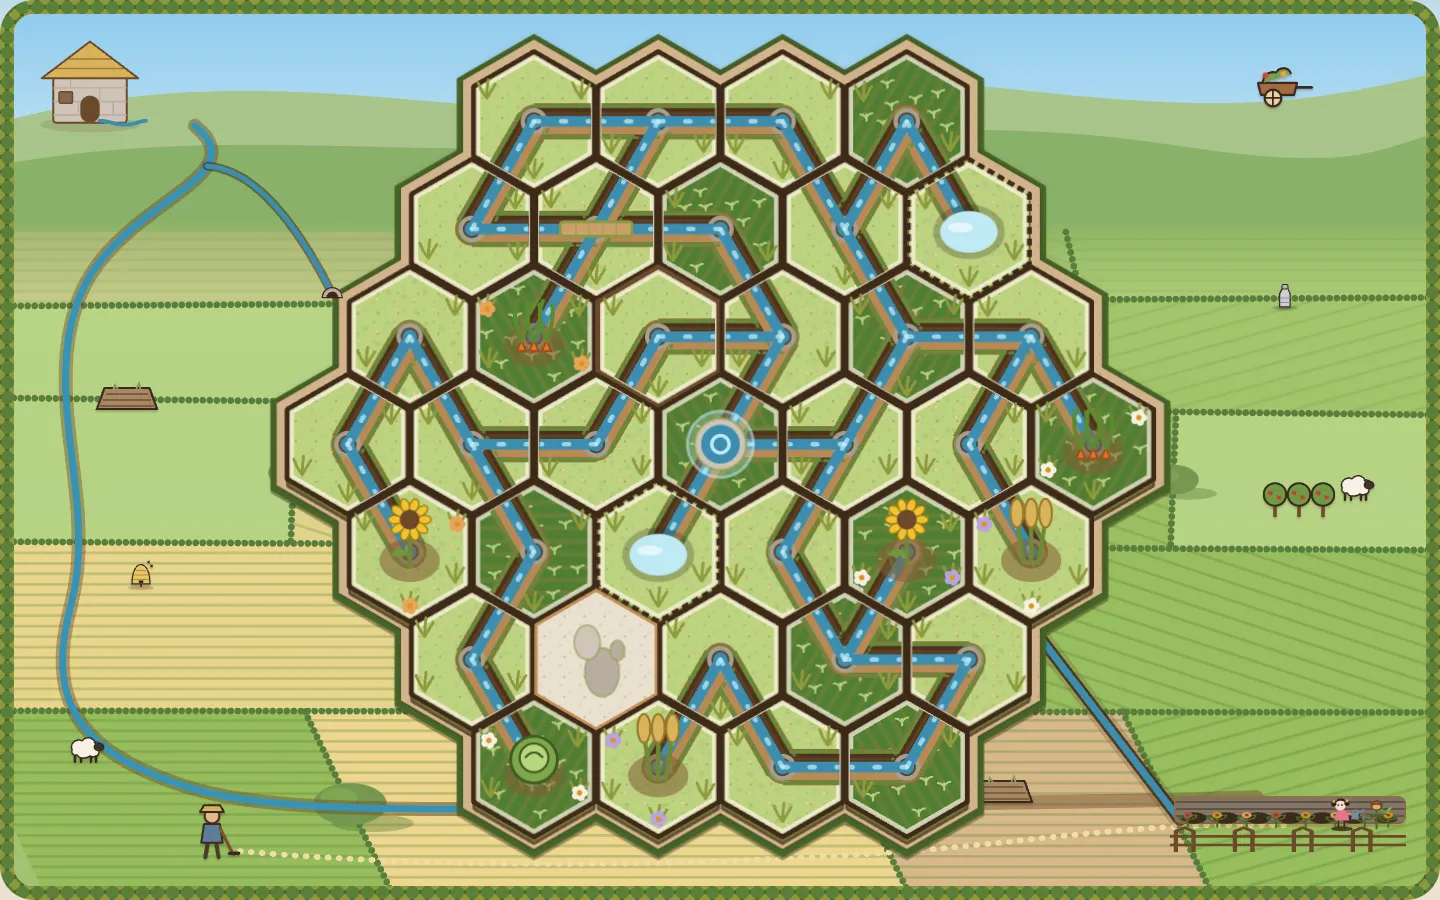
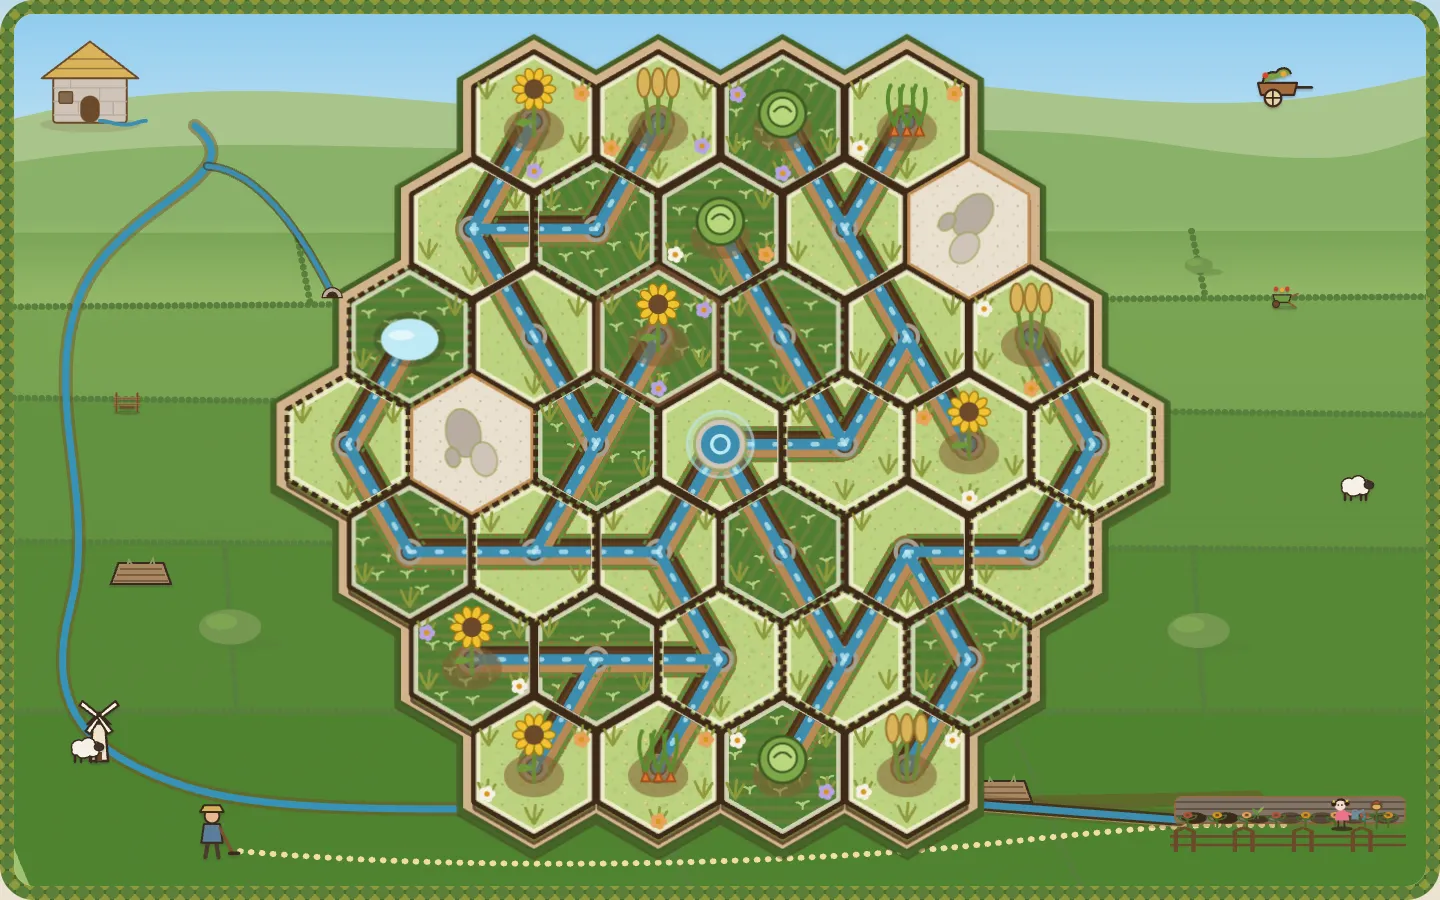
Item 308 done: a solved Runnel board greens the valley over in a wave; key art re-shot
Claude-Session: https://claude.ai/code/session_01SimvMN1RHBGCWN7Eo7MzhN

diff --git a/e2e-site/runnel-greened.spec.ts b/e2e-site/runnel-greened.spec.ts
@@ -1,0 +1,44 @@
+import { test, expect } from '@playwright/test'
+
+// Plan item 308: a solved board greens the valley's fields over: the tan fields (wheat, fallow) turn 30 degrees or more
+// of hue toward the wet-field green, the pale green crops deepen (in a wave; under reduced motion a single fade).
+const rgb = (c: string): [number, number, number] => {
+  const v = (c.match(/[\d.]+/g) ?? []).slice(0, 3).map(Number) as [number, number, number]
+  return c.startsWith('color(') ? v : (v.map((x) => x / 255) as [number, number, number])
+}
+const light = (c: string): number => {
+  const [r, g, b] = rgb(c)
+  return (Math.max(r, g, b) + Math.min(r, g, b)) / 2
+}
+const hue = (c: string): number => {
+  const [r, g, b] = rgb(c)
+  const max = Math.max(r, g, b), min = Math.min(r, g, b), d = max - min
+  if (d === 0) return 0
+  const h = max === r ? ((g - b) / d) % 6 : max === g ? (b - r) / d + 2 : (r - g) / d + 4
+  return (h * 60 + 360) % 360
+}
+
+test('a solved board greens the valley over', async ({ page }) => {
+  await page.emulateMedia({ reducedMotion: 'reduce' })
+  await page.addInitScript(() => localStorage.setItem('runnel:v1', JSON.stringify({ version: 1, lessonDone: true, results: {} })))
+  await page.goto('/runnel/?shotsolve')
+  await page.locator('[data-last]').waitFor()
+  const fills = () =>
+    page.locator('#valley-paint .vl-f-crop, #valley-paint .vl-f-wheat, #valley-paint .vl-f-fallow').evaluateAll((els) => els.map((e) => ({ crop: e.classList.contains('vl-f-crop'), fill: getComputedStyle(e).fill })))
+  const before = await fills()
+  expect(before.length).toBeGreaterThan(0)
+  await expect(page.locator('#valley-paint')).not.toHaveAttribute('data-greened', '')
+  await page.locator('[data-last]').click({ force: true })
+  await expect(page.locator('#valley-paint')).toHaveAttribute('data-greened', '')
+  await page.waitForTimeout(800)
+  const after = await fills()
+  for (const [i, { crop, fill }] of after.entries()) {
+    const was = before[i]!.fill
+    if (crop) {
+      expect(light(was) - light(fill), `crop ${i}: ${was} -> ${fill}`).toBeGreaterThanOrEqual(0.15)
+    } else {
+      const shift = Math.abs(hue(fill) - hue(was))
+      expect(Math.min(shift, 360 - shift), `field ${i}: ${was} -> ${fill}`).toBeGreaterThanOrEqual(30)
+    }
+  }
+})

diff --git a/games/runnel/src/styles.css b/games/runnel/src/styles.css
@@ -3845,6 +3845,19 @@ body[data-mode='practice'] #week-slot {
   .vl-f-wheat { fill: color-mix(in srgb, var(--vl-wheat) var(--vk), var(--paper)); }
   .vl-f-fallow { fill: color-mix(in srgb, var(--vl-fallow) var(--vk), var(--paper)); }
   .vl-f-grass { fill: color-mix(in srgb, var(--vl-meadow) var(--vk), var(--paper)); }
+  /* Plan item 308: when the board is solved every field in the valley greens over, a wave from the far rows to the
+     near ones (each field's delay bucket from valley.ts), the crop rows still drawn over the new green. */
+  .vl-f { transition: fill 650ms var(--ease-out, ease-out); }
+  #valley-paint[data-greened] .vl-f { fill: color-mix(in srgb, var(--wet-field) var(--vk), var(--paper)); }
+  #valley-paint[data-greened] .vl-w1 { transition-delay: 90ms; }
+  #valley-paint[data-greened] .vl-w2 { transition-delay: 180ms; }
+  #valley-paint[data-greened] .vl-w3 { transition-delay: 270ms; }
+  #valley-paint[data-greened] .vl-w4 { transition-delay: 360ms; }
+  #valley-paint[data-greened] .vl-w5 { transition-delay: 450ms; }
+  #valley-paint[data-greened] .vl-w6 { transition-delay: 540ms; }
+  #valley-paint[data-greened] .vl-w7 { transition-delay: 630ms; }
+  #valley-paint[data-greened] .vl-w8 { transition-delay: 720ms; }
+  #valley-paint[data-greened] .vl-w9 { transition-delay: 810ms; }
   .vl-row {
     stroke: color-mix(in srgb, var(--vl-hedge) 30%, transparent);
     stroke-width: 3;
@@ -4594,4 +4607,9 @@ body[data-mode='sunday'] .rail > .cal-title:first-of-type {
     background: radial-gradient(circle at 40% 35%, color-mix(in srgb, var(--stake-hi) 80%, var(--paper)), var(--stake) 70%);
     box-shadow: inset 0 0 0 1.5px color-mix(in srgb, var(--soil) 55%, transparent), inset 0 2px 2px color-mix(in srgb, var(--soil) 30%, transparent);
   }
+}
+@media (prefers-reduced-motion: reduce) {
+  /* Plan item 308: the valley greens in one short fade, no wave. */
+  .vl-f { transition-duration: 300ms; }
+  #valley-paint[data-greened] .vl-f { transition-delay: 0ms; }
 }

diff --git a/games/runnel/src/valley.ts b/games/runnel/src/valley.ts
@@ -146,7 +146,10 @@ export function valleyLayers(seed: string, weather: Sky['weather']): string {
       const pts = [
         [xa, slope(r, xa)], [xb, slope(r, xb)], [xb + lean, slope(r + 1, xb + lean)], [xa + lean, slope(r + 1, xa + lean)],
       ].map(([x, y]) => `${x!.toFixed(0)},${y!.toFixed(0)}`).join(' ')
-      parts.push(`<polygon class="vl-f vl-f-${kind}" points="${pts}"/>`)
+      // Plan item 308: each field's place in the wave that greens the valley on a solve (far rows first, then left to
+      // right), as a delay bucket 0-9 (styles.css).
+      const wave = Math.min(9, r * 2 + Math.floor((i * 2) / count))
+      parts.push(`<polygon class="vl-f vl-f-${kind} vl-w${wave}" points="${pts}"/>`)
       if (kind !== 'grass') {
         const pat = rnd(500 + n) < 0.5 ? 'vl-rows-h' : rnd(600 + n) < 0.5 ? 'vl-rows-d' : 'vl-rows-a'
         parts.push(`<polygon class="vl-furrow" fill="url(#${pat})" points="${pts}"/>`)

diff --git a/games/runnel/src/main.ts b/games/runnel/src/main.ts
@@ -1058,6 +1058,8 @@ function render(): void {
   const playable = puzzle.cells.filter((c) => c.kind !== 'stone').length
   ui.progress.style.setProperty('--progress', String(flow.wet.size / playable))
   ui.progress.classList.toggle('done', flow.solved)
+  // Plan item 308: a solved board greens the valley's fields over, in a wave (styles.css).
+  document.getElementById('valley-paint')?.toggleAttribute('data-greened', flow.solved)
   const wetShare = flow.solved ? 1 : flow.wet.size / playable
   for (const path of document.querySelectorAll<SVGPathElement>('.vl-water, .vl-trickle')) path.style.setProperty('--wet', String(wetShare))
   // Plan item 70: today's seed in Bea's garden sprouts as the stream reaches the fields (a full plant at a solve).

diff --git a/docs/plan/two-week-plan.md b/docs/plan/two-week-plan.md
@@ -2963,7 +2963,7 @@ The items come from fresh-eyes audits on 2026-11-01 and 2026-11-02 (items 25-32:
 - **Accept:** no untextured grey geometry in either l21 3D shot; every plot column inside the phone frame; nothing cut by the canvas top; no mote over 12 px across a plot; hedgerow-3dframe, -closeframe, -biome3d pass; key art re-shot; shots P and D.
 - **Size:** 2
 
-## 308. [ ] Runnel: a solved valley greens over *(lane B, in progress)*
+## 308. [x] Runnel: a solved valley greens over *(done 2026-11-11 05:05 lane B: when the board is solved every field in the painted valley greens over to `--wet-field`, a 650 ms wave from the far rows to the near ones in ten 90 ms steps (`vl-w0..9` from valley.ts, `data-greened` on `#valley-paint`); reduced motion: one 300 ms fade. Tan fields turn 30 degrees+ of hue, crop fields deepen (new e2e-site/runnel-greened.spec); runnel-valley, -win, -board, -week-valley, -fields, -water pass (37); key art re-shot (the poster is a solved board, now green to the edges); shots scratchpad rv-D (dry) and rv-D-solved, rv-P-solved. Not taken: a sparkle where the water enters a tile (the tiles already sprout, item 255))*
 - **Why:** `plan1108e/runnel-D` (790-1240 x 120-740) and `runnel-P` (130-330 x 320-620): the board's payoff is invisible: the fields around the board stay the same muted olive stripes (390-1420 x 300-880) whether the water reaches them or not. (Tiles already crack dry and sprout wet, item 255 / `--wet-field`.)
 - **Build:** watered tiles sprout along the channel in a 600-900 ms stagger with a sparkle where the water enters; when every field is watered, the valley's patchwork fields green over in a wave from the spring house to Bea's garden.
 - **Accept:** a solved board's fields differ from the dry ones by 30 degrees of hue and by pattern in greyscale; reduced motion shows the end state with a fade; runnel unit and site specs pass; key art re-shot; shots of a solved board at P and D beside the dry one.
